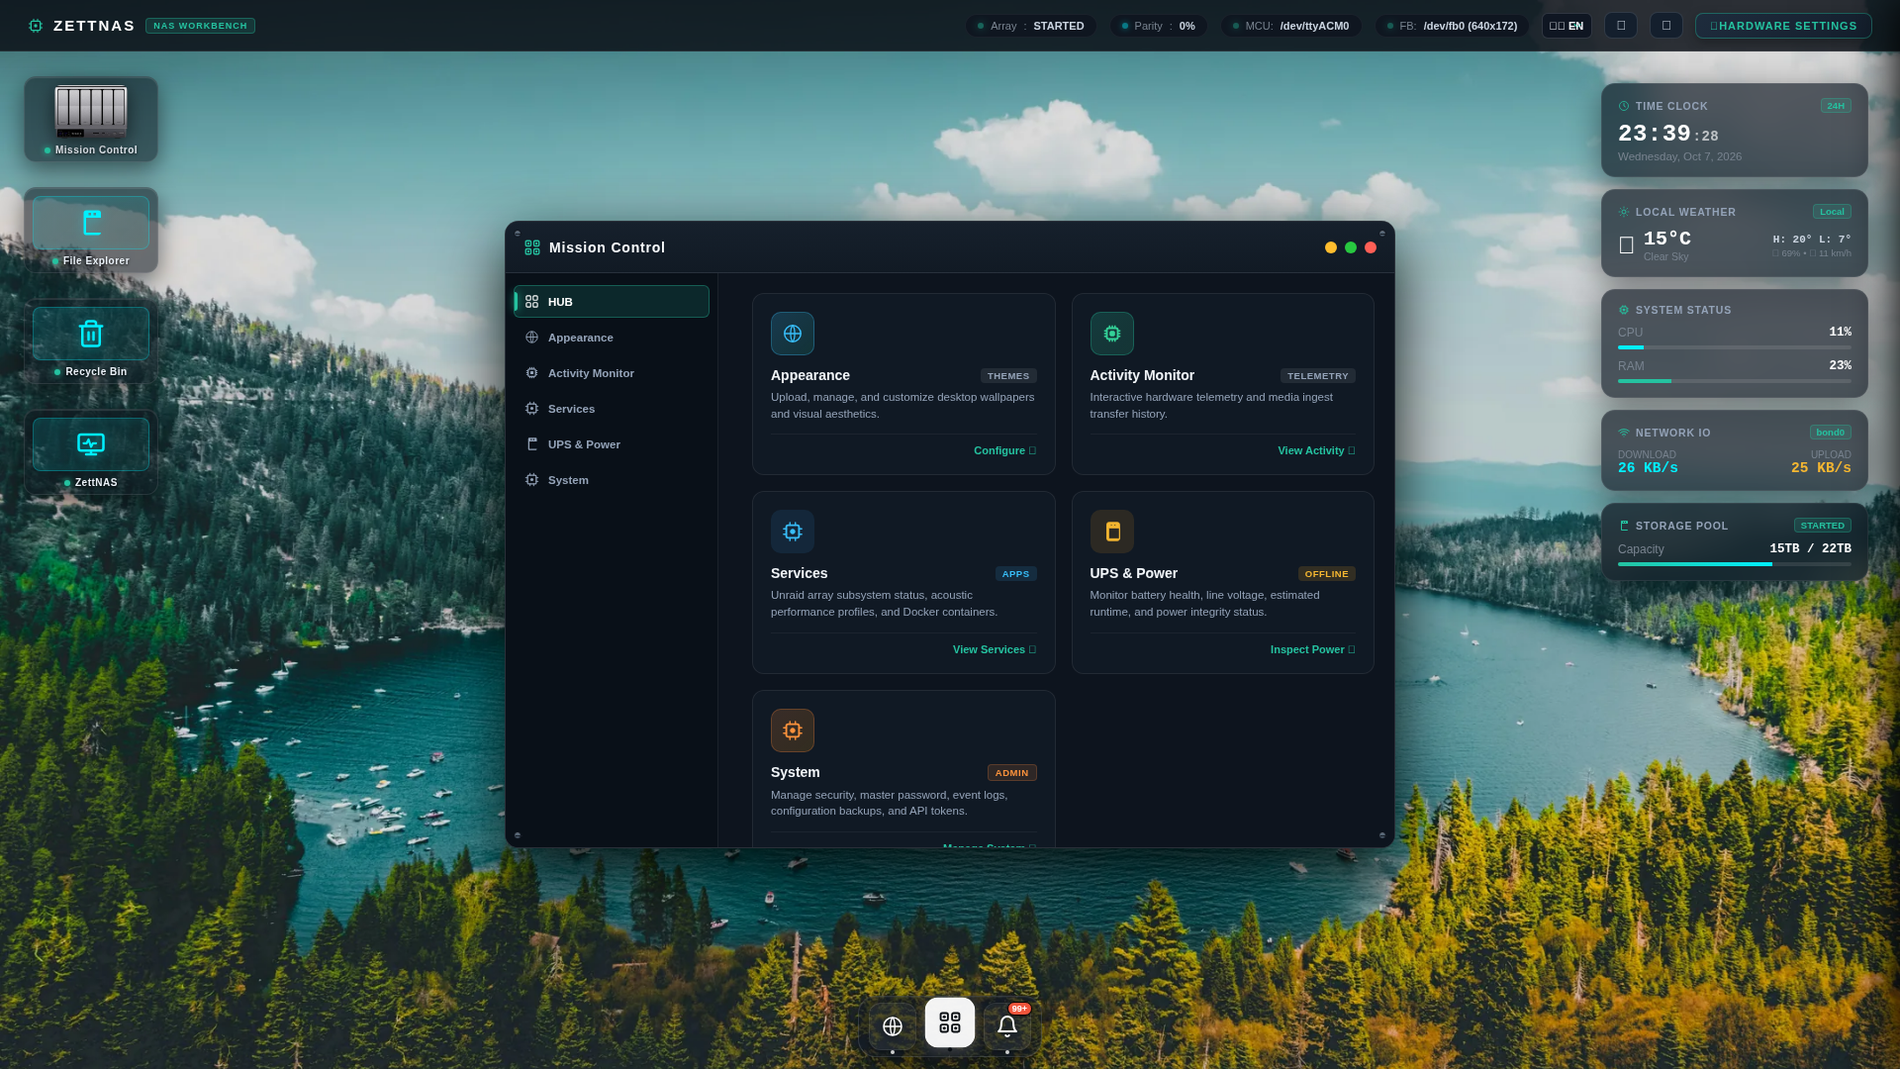
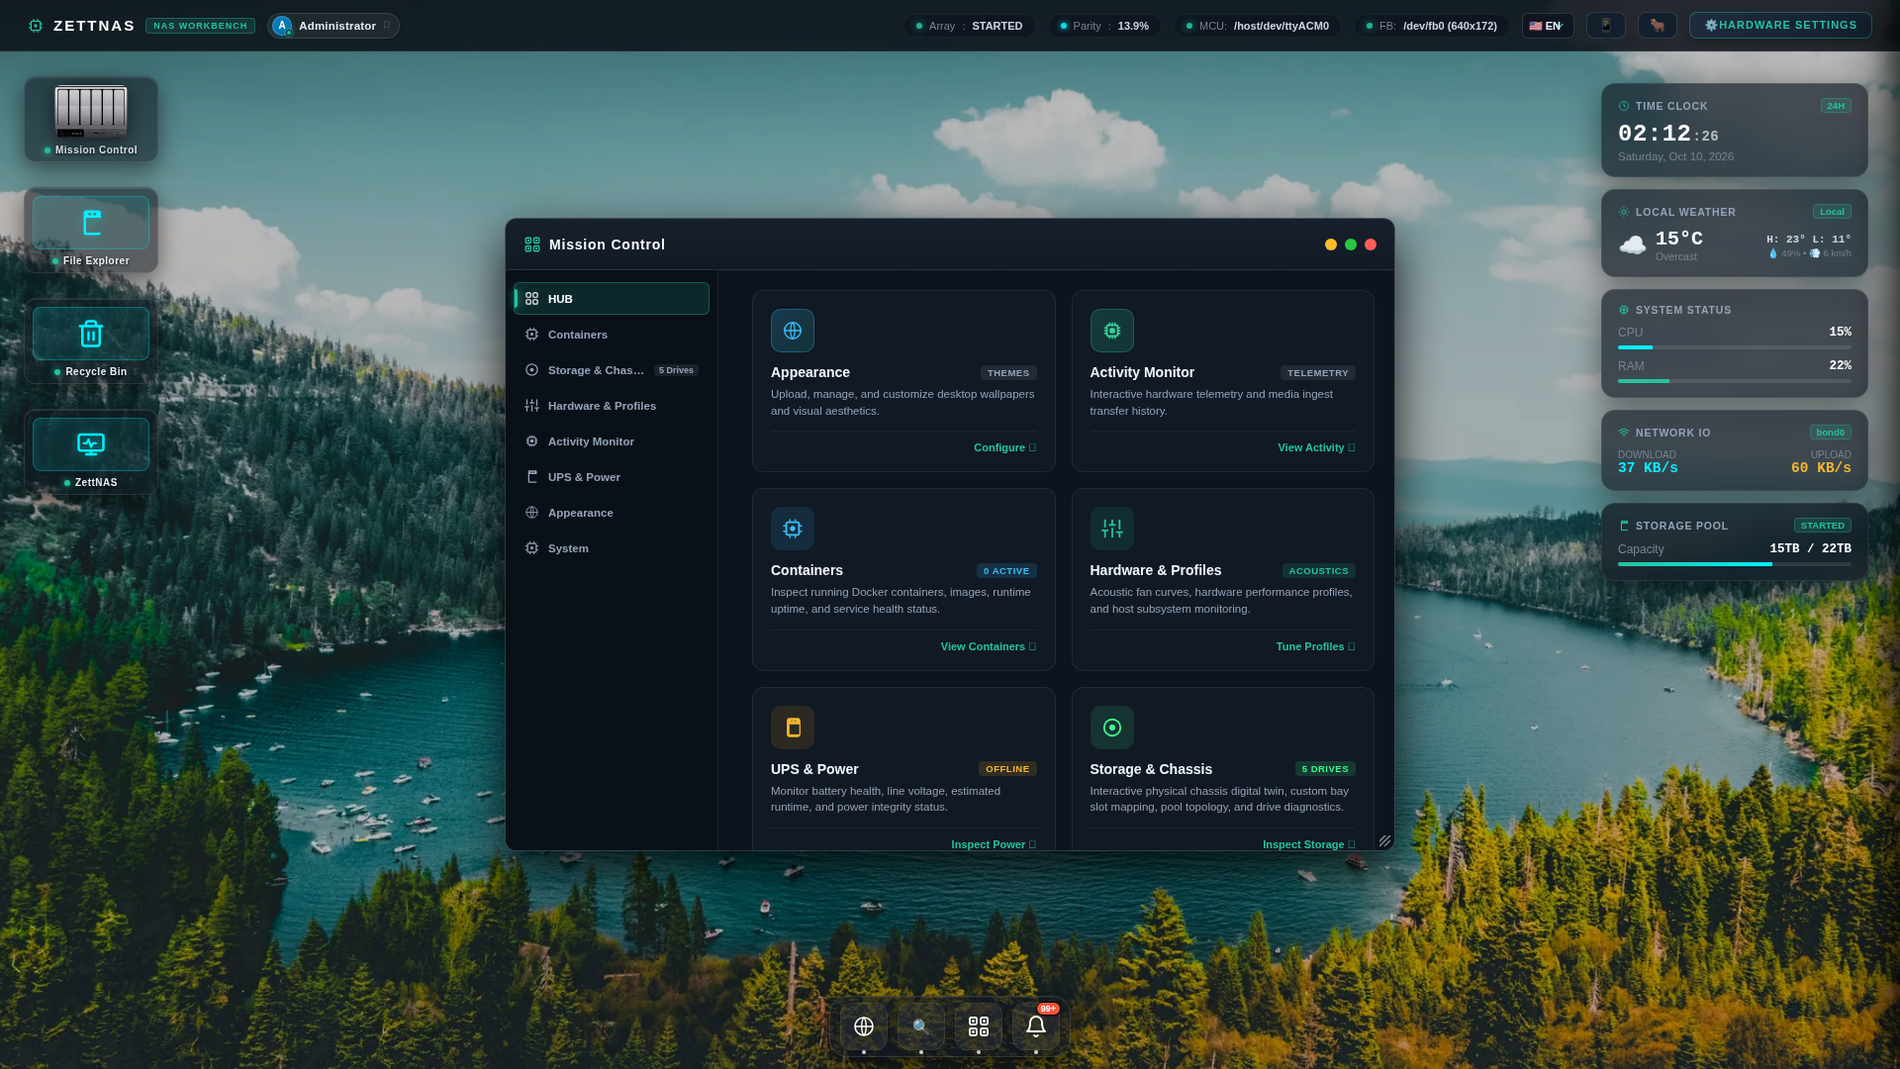
chore(release): v1.6.0 - Universal Multi-User RBAC, Notifications, Hyper-Backup & Modern Desktop OS

diff --git a/frontend/src/__tests__/about_and_updates.test.js b/frontend/src/__tests__/about_and_updates.test.js
@@ -37,8 +37,8 @@ describe('System About & Software Updates Frontend Component', () => {
       if (url === '/api/system/about') {
         return {
           name: 'ZettNAS Workbench',
-          version: '1.5.0',
-          tag: 'v1.5.0',
+          version: '1.6.0',
+          tag: 'v1.6.0',
           release_channel: 'Stable',
           chassis_model: 'Zettlab D8 (8-Bay)',
           hostname: 'ZettTower',
@@ -50,9 +50,9 @@ describe('System About & Software Updates Frontend Component', () => {
       }
       if (url.startsWith('/api/system/updates')) {
         return {
-          current_version: '1.5.0',
-          latest_version: '1.5.0',
-          latest_tag: 'v1.5.0',
+          current_version: '1.6.0',
+          latest_version: '1.6.0',
+          latest_tag: 'v1.6.0',
           update_available: false,
           checked_at: 1775685600,
         };
@@ -62,7 +62,7 @@ describe('System About & Software Updates Frontend Component', () => {
 
     await fetchAndRenderSystemAbout();
 
-    expect(document.getElementById('about-version-badge').textContent).toBe('v1.5.0 • Stable');
+    expect(document.getElementById('about-version-badge').textContent).toBe('v1.6.0 • Stable');
     expect(document.getElementById('about-chassis-model').textContent).toBe('Zettlab D8 (8-Bay)');
     expect(document.getElementById('about-host-platform').textContent).toBe('ZettTower (Linux 6.12.13-Unraid)');
     expect(document.getElementById('about-runtime-env').textContent).toBe('Docker Container (Python 3.12.15)');
@@ -79,8 +79,8 @@ describe('System About & Software Updates Frontend Component', () => {
       if (url === '/api/system/about') {
         return {
           name: 'ZettNAS Workbench',
-          version: '1.5.0',
-          tag: 'v1.5.0',
+          version: '1.6.0',
+          tag: 'v1.6.0',
           release_channel: 'Stable',
           chassis_model: 'Zettlab D4 (4-Bay)',
           uptime_secs: 3660,
@@ -88,12 +88,12 @@ describe('System About & Software Updates Frontend Component', () => {
       }
       if (url.startsWith('/api/system/updates')) {
         return {
-          current_version: '1.5.0',
-          latest_version: '1.6.0',
-          latest_tag: 'v1.6.0',
+          current_version: '1.6.0',
+          latest_version: '1.7.0',
+          latest_tag: 'v1.7.0',
           update_available: true,
-          release_name: 'ZettNAS v1.6.0 Enterprise Speed',
-          release_url: 'https://github.com/fr0styx/zettnas-toolkit/releases/tag/v1.6.0',
+          release_name: 'ZettNAS v1.7.0 Enterprise Speed',
+          release_url: 'https://github.com/fr0styx/zettnas-toolkit/releases/tag/v1.7.0',
           release_notes: '## Improvements\n- High-velocity NVMe telemetry',
           checked_at: 1775685600,
         };
@@ -104,10 +104,10 @@ describe('System About & Software Updates Frontend Component', () => {
     await fetchAndRenderSystemAbout(true);
 
     expect(document.getElementById('update-status-icon').textContent).toBe('🚀');
-    expect(document.getElementById('update-status-title').textContent).toContain('Update Available: v1.6.0');
+    expect(document.getElementById('update-status-title').textContent).toContain('Update Available: v1.7.0');
     expect(document.getElementById('update-details-box').style.display).toBe('block');
-    expect(document.getElementById('update-release-title').textContent).toBe('ZettNAS v1.6.0 Enterprise Speed');
-    expect(document.getElementById('update-release-link').href).toBe('https://github.com/fr0styx/zettnas-toolkit/releases/tag/v1.6.0');
+    expect(document.getElementById('update-release-title').textContent).toBe('ZettNAS v1.7.0 Enterprise Speed');
+    expect(document.getElementById('update-release-link').href).toBe('https://github.com/fr0styx/zettnas-toolkit/releases/tag/v1.7.0');
     expect(document.getElementById('update-release-notes').textContent).toContain('High-velocity NVMe telemetry');
   });
 

diff --git a/frontend/index.html b/frontend/index.html
@@ -3946,7 +3946,7 @@
                 </div>
                 <div style="display:flex; align-items:center; gap:8px;">
                   <span id="about-version-badge" class="badge-pill" style="background:rgba(37,194,160,0.15); border:1px solid rgba(37,194,160,0.4); color:var(--ok2); font-weight:700; font-size:11.5px; padding:4px 10px; border-radius:20px;">
-                    v1.5.0 • Stable
+                    v1.6.0 • Stable
                   </span>
                 </div>
               </div>

diff --git a/static/index.html b/static/index.html
@@ -3901,7 +3901,7 @@
                 </div>
                 <div style="display:flex; align-items:center; gap:8px;">
                   <span id="about-version-badge" class="badge-pill" style="background:rgba(37,194,160,0.15); border:1px solid rgba(37,194,160,0.4); color:var(--ok2); font-weight:700; font-size:11.5px; padding:4px 10px; border-radius:20px;">
-                    v1.5.0 • Stable
+                    v1.6.0 • Stable
                   </span>
                 </div>
               </div>

diff --git a/backend/__init__.py b/backend/__init__.py
@@ -3,4 +3,4 @@ ZettNAS Toolkit Backend Package
 Modularized architecture for chassis management, telemetry, and LCD dashboard.
 """
 
-__version__ = "1.5.0"
+__version__ = "1.6.0"

diff --git a/CHANGELOG.md b/CHANGELOG.md
@@ -1,5 +1,68 @@
 # ZettNAS Toolkit - Release Changelog
 
+## v1.6.0 (2026-10-10) - Stable
+### 🛡 Universal Multi-User RBAC, Enterprise Notifications, Hyper-Backup & Modern Desktop OS
+
+This landmark release transforms ZettNAS Workbench into an enterprise-ready, cross-platform NAS operating environment. Peer-reviewed across multiple systems engineering disciplines, v1.6.0 introduces an enterprise SQLite-backed Multi-User & RBAC engine, multi-channel alerting with Apprise, 3-2-1 Hyper-Backup and disaster recovery, a universal Platform Abstraction Layer (PAL) with Btrfs/Unraid/ZFS coexistence, an in-place Docker Compose Stack Editor, an interactive visual Network Topology inspector, and deep Desktop OS personalization with macOS-style dock magnification, dynamic hardware detection, and an OLED pure black theme:
+
+- **Enterprise Identity, Multi-User & Granular RBAC (Phases 1–5)**:
+  - **SQLite WAL User Store (`users.db`)**: High-performance persistence layer operating in Write-Ahead Logging (WAL) mode for users, roles, sessions, scoped API tokens, and structured security audit logs. Features transparent zero-downtime migration from legacy `security.json` and `sessions.json`.
+  - **Argon2id Cryptographic Security**: Upgraded credential hashing to RFC 9106 Argon2id (`m=64MB`, `t=3`, `p=4`) with automated transparent rehash on valid user login.
+  - **Multi-Factor Authentication (MFA / 2FA)**: RFC 6238 TOTP implementation with QR provisioning (`otpauth://`), time-drift tolerance, replay attack prevention, and 8 single-use cryptographically hashed recovery codes.
+  - **Enterprise SSO & Reverse Proxy Header Auth**: Native support for `X-Forwarded-User`, `Remote-User`, and `X-Forwarded-Email` headers from Authelia, Authentik, Traefik, and Cloudflare Access with trusted subnet validation.
+  - **Granular RBAC Scope Taxonomy**: Role-based access control with standard roles (`SuperAdmin`, `StorageAdmin`, `AppOperator`, `BackupOperator`, `ShareUser`, `Auditor`) and granular permission scopes (`system:*`, `storage:*`, `shares:*`, `containers:*`, `users:*`, `hardware:*`, `logs:*`).
+  - **Scoped API Tokens & Service Accounts**: Token provisioning with customizable scope matrices, CIDR whitelisting, expiration timestamps, and masked secret previews (`zat_****`).
+  - **Desktop UX & Authentication Overhaul**: Dual-mode login screen (User Avatar Chooser vs Classic Mode), 6-digit numeric OTP challenge, acrylic glassmorphic Inactivity Auto-Lock screen (`Cmd+L`), and top-bar user account pill and flyout.
+  - **Private Home Isolation & Multi-User WebDAV**: Automatic home directory provisioning (`/mnt/user/homes/<username>`) with 0700 permissions, per-user desktop state synchronization (wallpaper, theme, dock pins), and WebDAV authentication proxy.
+
+- **Universal Storage, Multi-Protocol HAL & Platform Abstraction Layer (PAL)**:
+  - **Multi-Protocol S.M.A.R.T. Engine**: Universal drive diagnostics supporting SATA (`-d sat`), NVMe (`-d nvme`), SAS (`-d scsi`), and USB bridge enclosures (`-d sntrealtek`, `-d sntjmicron`).
+  - **ATA Zero-Wake Spindown Safeguard**: Uses `smartctl -n standby` to query telemetry and temperatures without waking sleeping hard drive platters.
+  - **Virtual Block Device Filtering**: Automatically filters out zram, loop devices, and zero-byte virtual blocks from physical disk discovery.
+  - **Dynamic 2.5D Parametric Chassis Visualizer**: Dynamically models custom drive counts and backplanes beyond fixed 4/6/8 bay enclosures. Includes an interactive Bay Slots Mapping modal for drag-to-reorder disk identification and quad-action locate strobe.
+  - **Platform Abstraction Layer (PAL)**: Dynamic coexistence between Unraid array management and generic Linux storage engines (Btrfs RAID 0/1/5/6/10, mdadm, and ZFS).
+  - **Samba Port 445 Paradox Resolution**: Automatically probes port 445; acts as Host Share Auditor on appliance hosts (Unraid/TrueNAS) or provisions active Samba sidecars on Generic Linux.
+  - **Universal WebDAV & Rclone Multi-Cloud Gateway**: Zero-conflict WebDAV file server (Port `8084`) and Rclone cloud engine supporting 20+ remote providers (S3, Backblaze B2, Google Drive, Dropbox) directly browseable in File Explorer.
+
+- **Enterprise Multi-Channel Notifications & Alert Routing**:
+  - **Unified Apprise Integration**: Native dispatch across Discord (webhooks), Telegram (bot token & chat ID), Email/SMTP (TLS/SSL auth), ntfy (topics & self-hosted servers), Pushover, Gotify, generic webhooks, and raw Apprise URLs.
+  - **Mission Control Setup Wizards**: Dedicated `#mgmt-pane-notifications` tab with visual channel cards, active/disabled status badges, 1-click in-place test dispatches, and secret masking.
+  - **Dock Notification Center Deep-Link**: Quick header gear button in the Dock's notification flyout linking straight to notification channel settings.
+  - **Granular Alert Triggers & Thresholds**: Configurable event rules for S.M.A.R.T. degradation velocity, hard drive and CPU thermal ceilings, fan stalls, UPS power interrupts, container events, and backup status.
+
+- **Hyper-Backup & Disaster Recovery Subsystem**:
+  - **3-2-1 Backup Engine**: Automated pipeline supporting local filesystem snapshots and off-site cloud replication via Rclone.
+  - **Automated Scheduling & Pruning**: Configurable cron schedules with automated retention policies (hourly, daily, weekly, monthly prune).
+  - **1-Click Snapshot Rollback**: Instant filesystem snapshot restoration with transactional safety.
+  - **Sanitized Backup Archives**: System configuration exports with automatic exclusion of credentials, API tokens, and sensitive keys.
+
+- **Docker Containers, Compose Stacks & App Catalog**:
+  - **Top-Level Mission Control Menu**: Elevated "Apps & Containers" to a primary top-level sidebar menu item with live running container count badges.
+  - **In-Place Compose Stack Inspector & Editor**: Interactive editor for `docker-compose.yml` stacks and container configurations with syntax highlighting, validation, and live restart triggers.
+  - **Native UI Dialogs & Stack Picker**: Custom glassmorphic modals replacing native browser `prompt()` and `confirm()` dialogs.
+  - **Container Mutator & Update Engine**: Clickable container update badges, individual container updates, and "Update All" with automatic image pull, recreate, and rollback protection.
+  - **Docker Cleanup & External Templates**: URL-encoded Docker prune filters and support for external app templates (Portainer, Lissy93).
+
+- **Visual Network Topology & Virtual Switch Inspector**:
+  - **Interactive Network Interface Cards**: Visual SVG cards for physical interfaces, virtual bridges, and bonding interfaces (`bond0`) with live link speeds, MTU, duplex, and IPv4/IPv6 addresses.
+  - **Real-Time Throughput Sparklines**: Keyed zero-flicker table reconciler and SVG throughput graphs for live RX/TX network traffic.
+
+- **Structured Diagnostics & Correlation Tracing**:
+  - **Structured JSON Logging**: Uniform JSON logging with UUID `x-correlation-id` request tracing across all API endpoints, SSE streams, and background daemons.
+  - **1-Click Anonymized Diagnostics Bundle**: One-click download of sanitized system diagnostics with automatic redaction of passwords, tokens, public IPs, and user hashes.
+
+- **Desktop OS Personalization & UX Polish**:
+  - **Visual Wallpaper Gallery Grid**: Thumbnail grid with lazy loading, active wallpaper indicators, drag-and-drop file ingestion, and custom modal for rename/delete.
+  - **Parabolic Dock Magnification**: Smooth macOS-style magnification on hover, configurable dock positioning (Bottom, Left, Right), and dynamic desktop workspace bounds.
+  - **Acrylic Glassmorphism Controls**: Sliders for blur strength, opacity, and specular highlights (disabled by default for clean contrast).
+  - **Themes & Instant Yak Switching**: Cyber Teal, Amber CRT, Emerald Matrix, Sapphire Ice, Amethyst, Crimson, Yak Bronze, and Pure OLED Black (`theme-oled`). Instant wallpaper switch to Yak wallpaper when Yak theme is selected.
+  - **Desktop Shortcuts & Context Menu**: Right-click desktop workspace menu with deduplication and alignment tools; custom desktop shortcuts for Containers, Storage, and Activity Monitor.
+
+- **Dynamic Hardware HAL & Custom Chassis Features**:
+  - **Dynamic Hardware Settings Button**: Automatically detects whether host has custom appliance hardware (Physical LCD panel `/dev/fb0`, front copy button, SD/TF card slot as on ZETTLABS D6U / Aoostar WTR) vs generic servers, intelligently hiding unsupported menus.
+  - **Dynamic MCU & FB Status Badges**: Top-bar MCU (`/dev/ttyACM0`) and FB (`/dev/fb0`) status badges automatically hide if the physical peripheral is not connected.
+  - **Universal Card Re-ordering**: Card locking and drag-to-reorder now works universally across all 4 drawer tabs (Dashboard Layout, LED Strip Bar, Fans, Copy Button).
+
 ## v1.5.0 (2026-10-08) - Stable
 ### 🚀 Master UI/UX Evolution & System Hardening (Phases 1–5 Complete)
 

diff --git a/README.md b/README.md
@@ -19,25 +19,22 @@
   <img src="static/img/ui-screenshot.png" width="90%" alt="ZettNAS Web Studio & Desktop UI" style="border-radius: 8px; box-shadow: 0 12px 36px rgba(0,0,0,0.5);">
 </div>
 
-**ZettNAS Toolkit** (**NAS WORKBENCH**) is a specialized hardware orchestration platform engineered for Zettlab NAS enclosures (D4, D6, and D8 models) and custom homelab servers running Unraid, Debian, or generic Docker hosts. It bridges physical chassis peripherals with modern web management:
+**ZettNAS Toolkit** (**NAS WORKBENCH**) is an enterprise-grade hardware orchestration platform, modern web desktop OS, and container management suite engineered for Zettlab NAS enclosures (D4, D6, D8 models), Aoostar appliances, and generic homelab servers running Unraid, Debian, Ubuntu, TrueNAS, or Docker. It bridges physical server hardware with an intuitive desktop environment:
 
+* **Enterprise Multi-User & Granular RBAC** — SQLite WAL user store (`users.db`), RFC 9106 Argon2id credential hashing, RFC 6238 TOTP Multi-Factor Authentication, Reverse Proxy SSO (`X-Forwarded-User`), scoped API tokens with CIDR whitelisting, private home folder isolation (`/mnt/user/homes/<username>`), and Inactivity Auto-Lock screen (`Cmd+L`).
+* **Multi-Channel Notifications & Alert Engine** — Unified Apprise integration for Discord, Telegram, Email/SMTP, ntfy, Pushover, Gotify, and webhooks with Mission Control channel setup wizards, 1-click test dispatches, secret masking, and Dock deep-links.
+* **Universal Storage & Platform Abstraction Layer (PAL)** — Multi-protocol S.M.A.R.T. engine (SATA, NVMe, SAS, USB UAS), zero-wake ATA spindown safeguard (`smartctl -n standby`), dynamic 2.5D parametric Chassis Digital Twin with drag-and-drop bay slot mapping, and dynamic coexistence across Btrfs RAID, Unraid array, and ZFS.
+* **Universal WebDAV Server & Rclone Cloud Gateway (Port `8084`)** — Collision-free WebDAV file access and direct desktop File Explorer browsing for 20+ cloud backends (S3, Backblaze B2, Google Drive, OneDrive, Dropbox).
+* **Hyper-Backup & 3-2-1 Disaster Recovery** — Automated snapshot schedules, local and remote cloud backup pipelines, retention pruning, and 1-click snapshot rollback.
+* **In-Place Docker Compose Stack Inspector & Editor** — Live Compose stack editing, container mutator, clickable container update badges, individual and "Update All" container updates with automatic image pull and rollback protection.
+* **Visual Network Topology & Virtual Switch Inspector** — Interactive SVG interface cards displaying link speeds, MTU, duplex, IPv4/IPv6, and zero-flicker real-time throughput sparklines for physical and virtual interfaces (`bond0`, bridges).
+* **Modern Desktop OS & Personalization** — Visual wallpaper gallery with drag-and-drop upload, macOS-style parabolic dock magnification, acrylic glassmorphism sliders, desktop context menu, custom desktop shortcuts, and themes (Cyber Teal, Amber CRT, Emerald Matrix, Yak Bronze, and Pure OLED Black).
+* **Dynamic Hardware HAL** — Automatically detects custom appliance hardware (Physical LCD panel `/dev/fb0`, front copy button, SD/TF card slot as on ZETTLABS D6U / Aoostar WTR) vs generic servers, intelligently hiding unsupported menus and top-bar MCU/FB badges.
 * **Direct Front-Panel LCD (`/dev/fb0`)** — 640×172 zero-overhead rendering with multi-page rotation, hardware button cycling, screen-off sleep (0 FPS), and adaptive idle rates.
-* **Modern Web OS Desktop (Port `8082`)** — Windowed workspace featuring customizable desktop icons, persistent window coordinate bounds (`localStorage`), 8-zone Aero Snap window tiling, snap assist hover flyouts, and interactive taskbar dock with live hover previews.
-* **Universal Spotlight Command Palette (`Cmd+K` / `Ctrl+K`)** — Lightning-fast fuzzy search across applications, active Docker containers, storage browse roots, and direct hardware actions (`>reboot`, `>spindown`, `>quiet fans`, `>turbo`, `>theme oled`).
-* **Curated 25+ Homelab App Catalog & Conflict Resolver** — Built-in 1-click Docker application catalog (Jellyfin, Immich, Nextcloud, Home Assistant, Vaultwarden, qBittorrent, etc.) with automatic pre-flight host port conflict resolution and live Compose generation.
-* **In-Browser Container Web Terminal** — Interactive container console in the Container Inspector allowing live shell command execution, history navigation, and clean output streaming.
-* **Parametric 2.5D SVG Chassis Twin & Drive Locator** — Real-time interactive physical twin for Zettlab D4, D6, D8, and DIY enclosures with per-bay thermal heatmaps, spindown platter states, and physical quad-action "Locate Drive" strobe with Web Audio chirps.
-* **Desktop Marquee Lasso & Context Menu** — Desktop wallpaper click-and-drag multi-select box and right-click desktop workspace context menu.
-* **Mobile PWA & Touch Haptics** — Standalone progressive web app (`manifest.json`) with responsive bottom-sheet layouts and tactile touch vibration feedback (`navigator.vibrate`).
-* **Mission Control & Hardware Settings** — Centralized administration hub with responsive left-sidebar navigation, live Docker container telemetry (CPU, RAM, Net I/O), custom named fan curves, and diagnostic inspectors.
-* **Predictive S.M.A.R.T. & NVMe Health** — SQLite-backed rate-of-change degradation velocity tracking (shedding sectors, stuck pending sectors, thermal drift) with 30-day sparklines plus NVMe wear metrics (TBW, available spare %, critical warnings).
+* **Predictive S.M.A.R.T. & NVMe Velocity Tracking** — Rate-of-change degradation velocity tracking (reallocated sectors, pending sectors, NVMe wear) with 30-day sparklines.
 * **Native NUT UPS Protocol & Emergency Failsafes** — Zero-subprocess TCP socket client (port 3493) with automated failsafes: pauses photo transfers, flushes dirty OS buffers (`os.sync()`), dispatches priority alerts, and triggers host powerdown.
 * **High-Integrity Media Ingestion** — Front SD/TF card auto-detection with interactive confirmation dialog, safe eject protection, async I/O (`aiofiles`), SHA-256 verification, and persistent SQLite logs.
-* **Multi-Architecture Docker Distribution** — Native multi-arch support (`linux/amd64` and `linux/arm64` for Raspberry Pi, ARM NAS boards, and Apple Silicon) published directly to GitHub Container Registry.
 * **Full Internationalization (i18n)** — Zero-dependency client-side localization across 5 languages (English, German, Simplified Chinese, French, and Spanish) spanning all interfaces, modals, and settings.
-* **Hardware- & OS-Agnostic Container Engine** — Pure Docker Engine API compliance over `/var/run/docker.sock` across Debian, Ubuntu, TrueNAS SCALE, Proxmox, and Unraid. Features dynamic OCI Compose Spec v3.8+ YAML synthesizer with secret masking, multiplexed live logs console, zero-downtime resource tuning, and atomic port reconfiguration with rollback protection.
-* **Strictly Isolated Theme Architecture** — Decoupled styling engines for the physical front-panel LCD (`/dev/fb0`) vs. desktop web workspace, ensuring desktop accent color changes never alter hardware display telemetry.
-* **Chassis ARGB Lightbar (`/dev/ttyACM0`)** — USB microcontroller driver for 38 WS2812B LEDs with hardware animations, error-reactive alerts (red/amber), and blackout night scheduling.
 
 ---
 
